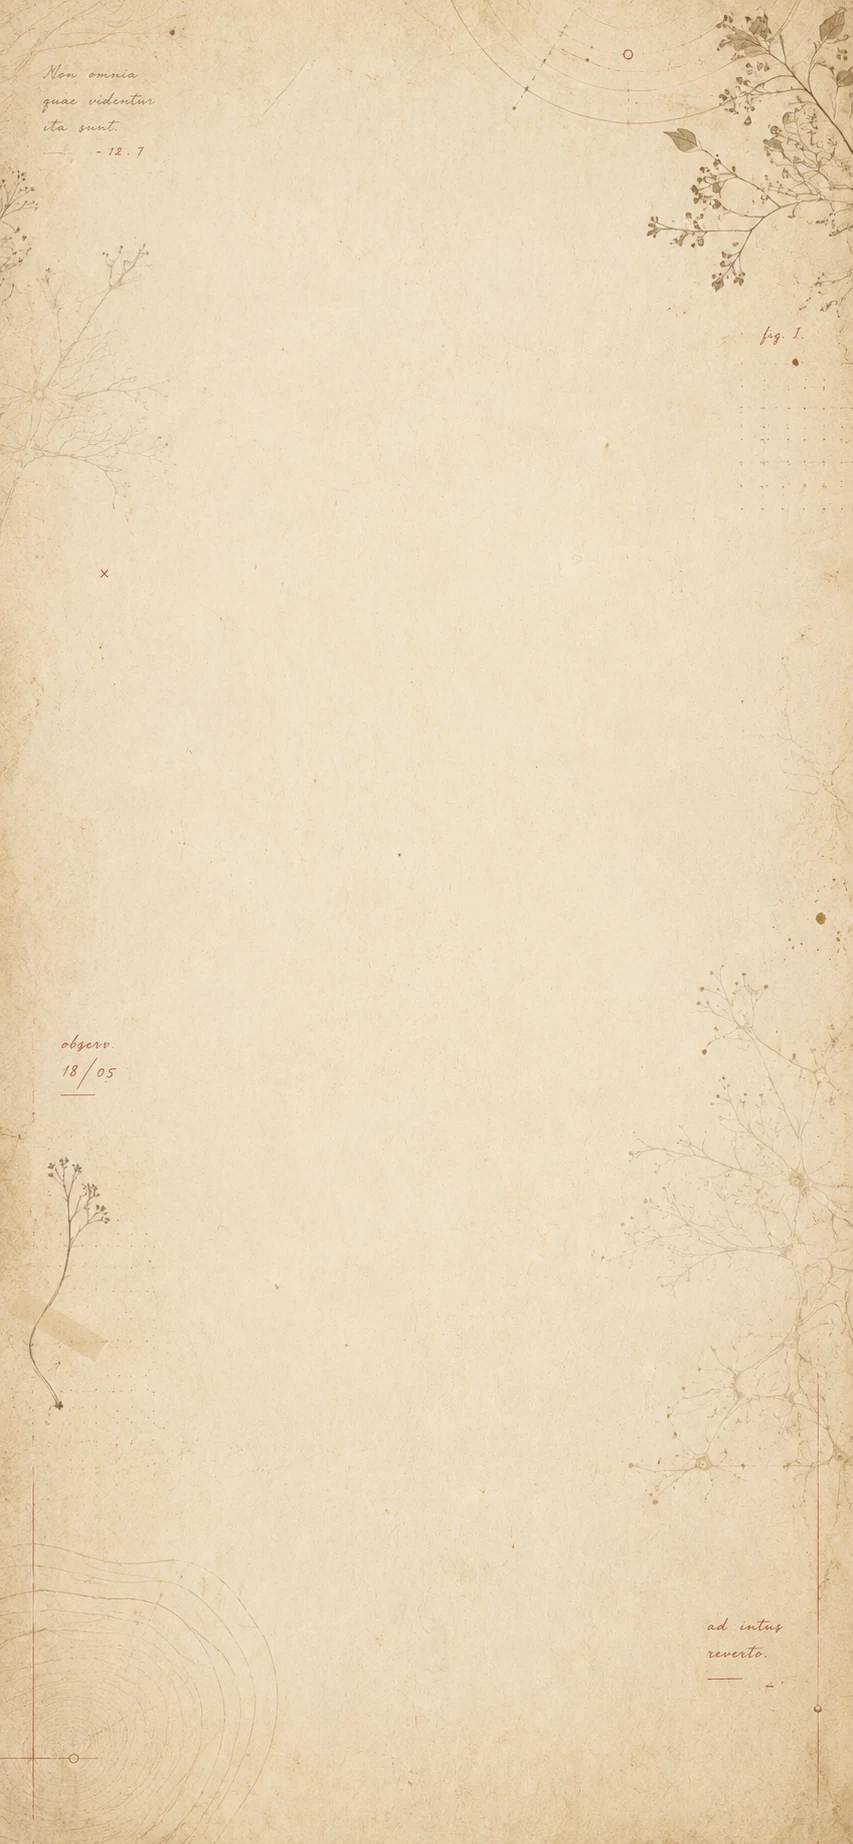
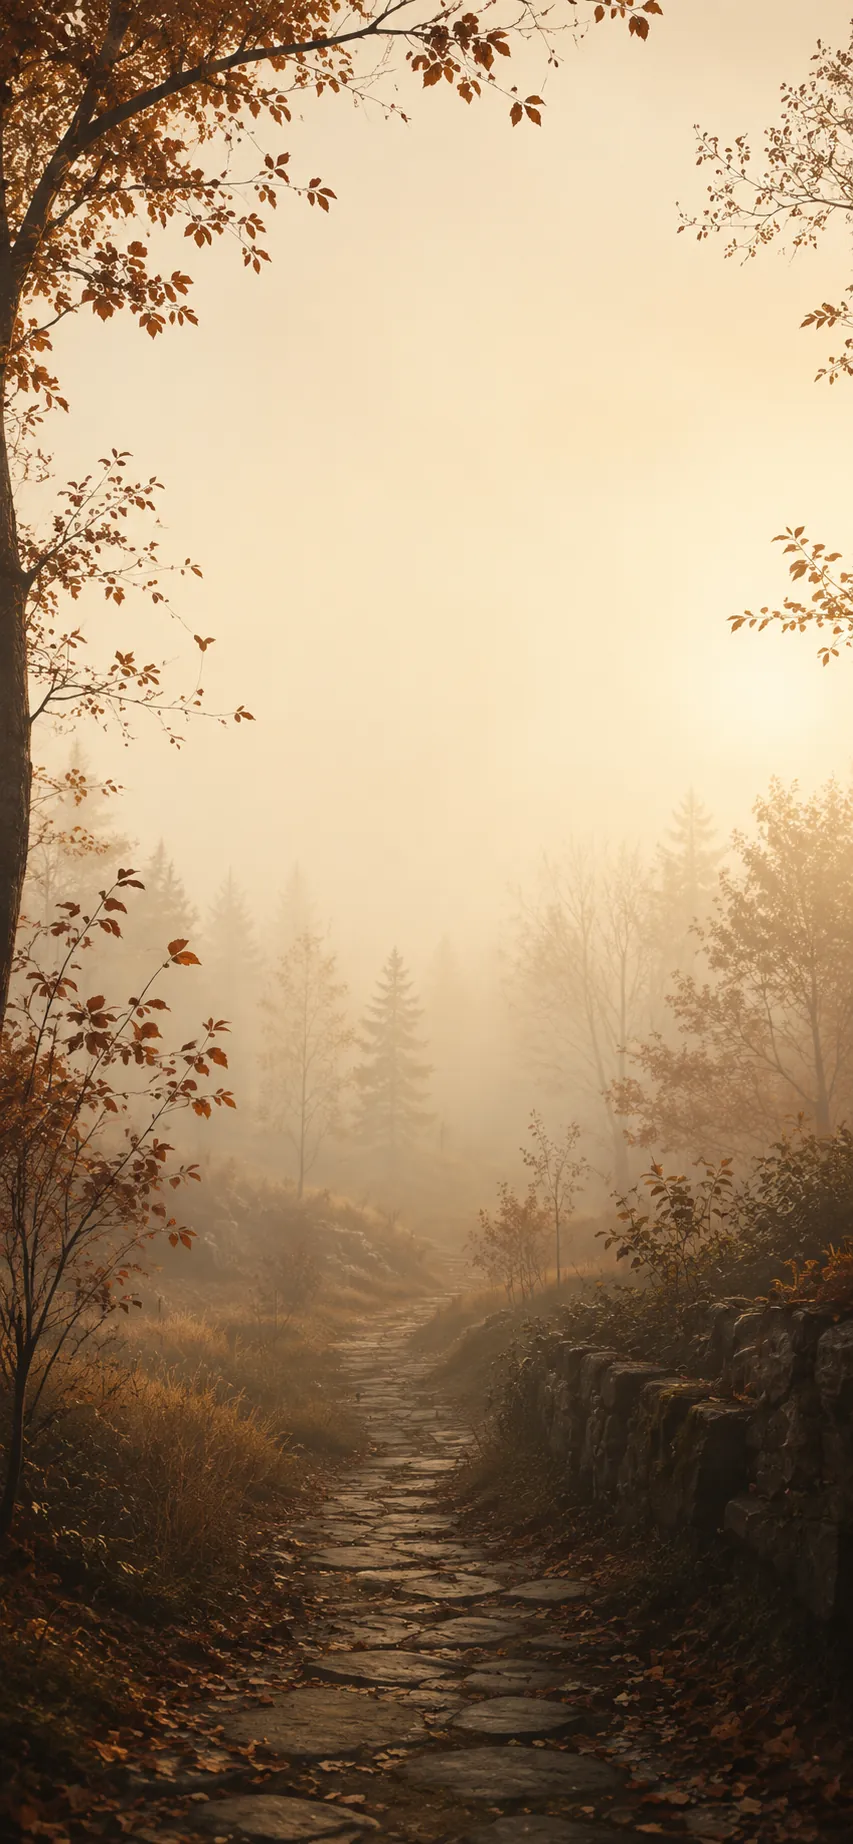
Update Mind screen background image and cleanup
- Swap Mind screen's hero background to the new forest-path photo
- Adjust title/subtitle text color and shadow for legibility against
  the new photo's mixed light/dark tones
- Remove stray _qa_screenshot.cjs from tracking, ignore the pattern

diff --git a/src/app/App.tsx b/src/app/App.tsx
@@ -1811,11 +1811,11 @@ function ScreenAnalysis({ onNavSelect, store }: { onNavSelect?: (id: string) => 
         // The photo as an actual CSS background — nothing else about this
         // screen's layout changes from what it was on flat mdBg: same
         // padding, same title block, same order, same everything below it.
-        // This particular photo (an aged cream journal page) is light and
-        // fairly even top to bottom, unlike the darker photo it replaced —
-        // dark ink text sits straight on it with no scrim needed, the same
-        // way this screen's text always looked on flat mdBg.
-        backgroundColor: "#ece2cd",
+        // This photo mixes dark branches and bright fog right where the
+        // title sits, unlike the flat cream journal page it replaced — a
+        // light color alone would vanish against the dark patches, so this
+        // goes back to cream text with a dark shadow (holds up over both).
+        backgroundColor: "#2a2016",
         backgroundImage: `url(${mindHeroImg})`,
         backgroundSize: "cover",
         backgroundPosition: "top center",
@@ -1823,8 +1823,8 @@ function ScreenAnalysis({ onNavSelect, store }: { onNavSelect?: (id: string) => 
     >
       <div style={{ flex: 1, minHeight: 0, overflowY: "auto", padding: "0 16px 24px" }}>
         <div style={{ padding: "8px 4px 20px" }}>
-          <div style={{ ...serif, fontSize: 34, fontWeight: 400, color: mdHeading, marginBottom: 6 }}>Mind</div>
-          <div style={{ ...sans, fontSize: 13, color: mdBody }}>The beliefs you've confirmed so far, mapped as their own living network.</div>
+          <div style={{ ...serif, fontSize: 34, fontWeight: 400, color: "#f2ece2", marginBottom: 6, textShadow: "0 2px 10px rgba(0,0,0,0.6)" }}>Mind</div>
+          <div style={{ ...sans, fontSize: 13, color: "rgba(242,236,226,0.82)", textShadow: "0 1px 8px rgba(0,0,0,0.65)" }}>The beliefs you've confirmed so far, mapped as their own living network.</div>
         </div>
 
         {/* ── RELATED NEURAL ACTIVITY — deliberately NOT Home's full brain
@@ -4940,7 +4940,7 @@ function useIsMobileViewport(): boolean {
 
 // ── App shell ──────────────────────────────────────────────────────────────
 export default function App() {
-  const [screen, setScreen] = React.useState("home"); // TEMP: visual QA
+  const [screen, setScreen] = React.useState("splash");
   const [hypothesisIndex, setHypothesisIndex] = React.useState(0);
   // Investigate is reachable from two places now — the legacy standalone
   // hypothesisDetail screen, and the Analysis tab's inline discovery body —
